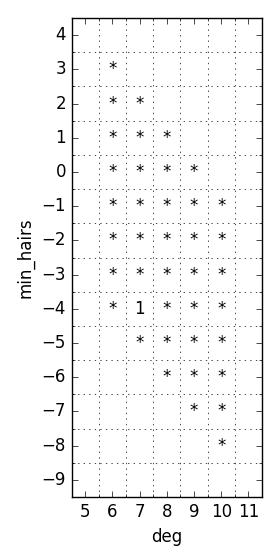
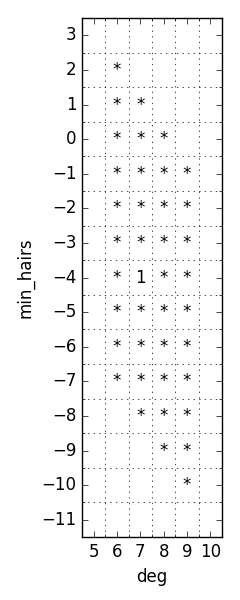
Bug: Bicomplex don't square to zero

diff --git a/test_hairy_bicomplex.py b/test_hairy_bicomplex.py
@@ -8,8 +8,8 @@ if __name__ == "__main__":
 
     even_e = False
     even_h = False
-    deg_range = range(5, 12)
-    h_min_range = range(-9, -1)
+    deg_range = range(5, 11)
+    h_min_range = range(-11, -1)
 
     gc = HGBC.HairyBiGC(deg_range, h_min_range, even_e, even_h)
 
